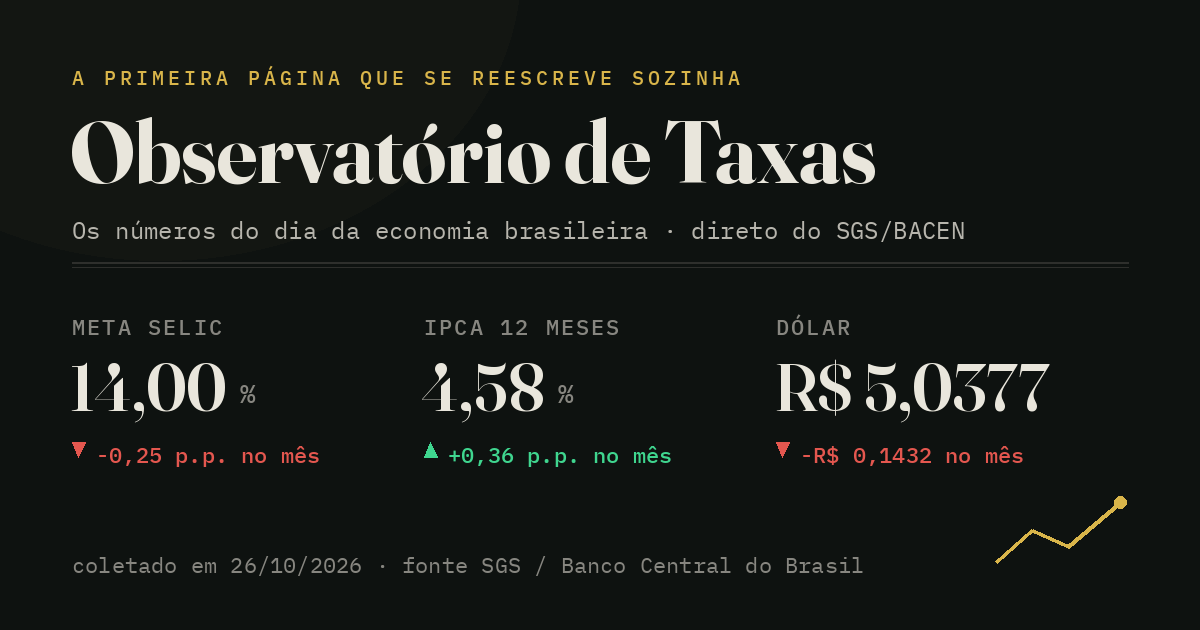
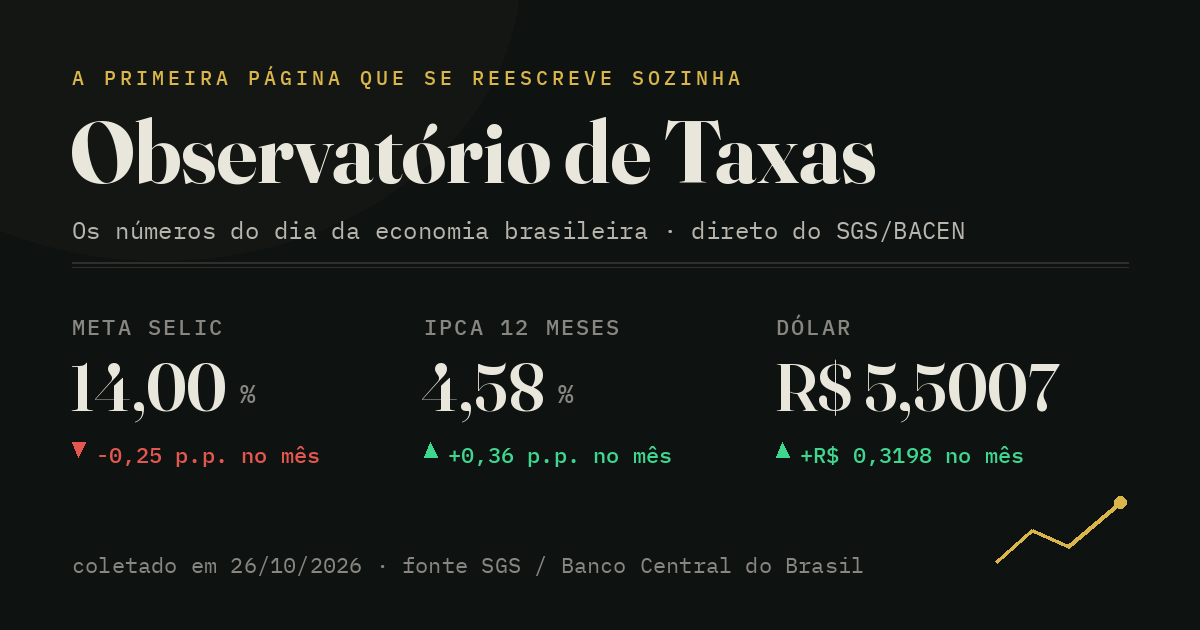
chore: snapshot 2026-10-26

Changed region(s): [[0.74, 0.573, 0.8942, 0.6635], [0.6475, 0.6937, 0.8633, 0.754]]

diff --git a/docs/index.html b/docs/index.html
@@ -321,11 +321,11 @@
       <h1>Observatório de Taxas</h1>
       <!-- boletim:inicio -->
 <p class="masthead-data" id="hoje">Segunda-feira, 26 de outubro de 2026</p>
-<p class="carimbo-linha">coletado às 14:54 · commit <a href="https://github.com/iosbilario/observatorio-taxas/commits/main">970ed77</a> · fonte SGS/BACEN</p>
+<p class="carimbo-linha">coletado às 19:05 · commit <a href="https://github.com/iosbilario/observatorio-taxas/commits/main">4db490b</a> · fonte SGS/BACEN</p>
 <div class="boletim">
 <article class="num" id="selic"><h2 class="num-tag">Taxa Selic hoje</h2><p class="num-rot">Meta Selic</p><p class="num-val"><span class="v">14,00</span><span class="suf">% a.a.</span></p><p class="num-delta down">▼ -0,25 p.p. no mês</p><p class="num-ref">ref. 16/09/2026</p><div class="spark" data-cod="432" data-casas="2" aria-hidden="true"></div></article>
 <article class="num" id="ipca"><h2 class="num-tag">IPCA acumulado 12 meses hoje</h2><p class="num-rot">IPCA 12 meses</p><p class="num-val"><span class="v">4,58</span><span class="suf">%</span></p><p class="num-delta up">▲ +0,36 p.p. no mês</p><p class="num-ref">ref. 01/09/2026</p><div class="spark" data-cod="13522" data-casas="2" aria-hidden="true"></div></article>
-<article class="num" id="dolar"><h2 class="num-tag">Cotação do dólar hoje</h2><p class="num-rot">Dólar (venda)</p><p class="num-val"><span class="v">R$ 5,0377</span></p><p class="num-delta down">▼ -R$ 0,1432 no mês</p><p class="num-ref">ref. 23/10/2026</p><div class="spark" data-cod="1" data-casas="4" aria-hidden="true"></div></article>
+<article class="num" id="dolar"><h2 class="num-tag">Cotação do dólar hoje</h2><p class="num-rot">Dólar (venda)</p><p class="num-val"><span class="v">R$ 5,5007</span></p><p class="num-delta up">▲ +R$ 0,3198 no mês</p><p class="num-ref">ref. 26/10/2026</p><div class="spark" data-cod="1" data-casas="4" aria-hidden="true"></div></article>
 <article class="num" id="igpm"><h2 class="num-tag">IGP-M no mês hoje</h2><p class="num-rot">IGP-M no mês</p><p class="num-val"><span class="v">1,57</span><span class="suf">%</span></p><p class="num-delta up">▲ +1,79 p.p. no mês</p><p class="num-ref">ref. 01/09/2026</p><div class="spark" data-cod="189" data-casas="2" aria-hidden="true"></div></article>
 <article class="num" id="desemprego"><h2 class="num-tag">Taxa de desemprego hoje</h2><p class="num-rot">Desemprego</p><p class="num-val"><span class="v">5,3</span><span class="suf">%</span></p><p class="num-delta flat">■ 0,0 p.p. no mês</p><p class="num-ref">ref. 01/08/2026</p><div class="spark" data-cod="24369" data-casas="1" aria-hidden="true"></div></article>
 </div>
@@ -346,7 +346,7 @@
       <div class="duas">
         <div>
           <!-- rebobinar:inicio -->
-<div class="fita-mini" aria-hidden="true"><span class="fio-mini"></span><span class="no-mini"></span><span class="no-mini"></span><span class="no-mini"></span><span class="no-mini"></span><span class="no-mini"></span><span class="no-mini ativo"></span></div><p class="fita-meses">mai/26 … out/26</p><p class="manchete-mes">O euro não deu trégua em Outubro de 2026</p><a class="btn-link" href="rebobinar.html">Rebobinar mês a mês →</a>
+<div class="fita-mini" aria-hidden="true"><span class="fio-mini"></span><span class="no-mini"></span><span class="no-mini"></span><span class="no-mini"></span><span class="no-mini"></span><span class="no-mini"></span><span class="no-mini ativo"></span></div><p class="fita-meses">mai/26 … out/26</p><p class="manchete-mes">O dólar não deu trégua em Outubro de 2026</p><a class="btn-link" href="rebobinar.html">Rebobinar mês a mês →</a>
 <!-- rebobinar:fim -->
         </div>
         <div></div>

diff --git a/CHANGELOG.md b/CHANGELOG.md
@@ -1083,3 +1083,7 @@
     ↳ Câmbio USD/BRL - compra: subiu de 5,0371 para 5,4998.
 [2026-10-26 17:52:05 +0000] Câmbio EUR/BRL - venda: 5.6422000 -> 6.1487000
     ↳ Câmbio EUR/BRL - venda: subiu de 5,6422 para 6,1487.
+[2026-10-26 22:04:06 +0000] TR - Taxa Referencial (%): 0.1261 -> 0.0959
+    ↳ TR - Taxa Referencial (%): caiu de 0,1261 para 0,0959.
+[2026-10-26 22:04:06 +0000] Câmbio USD/BRL - venda: 5.0377 -> 5.5007
+    ↳ Câmbio USD/BRL - venda: subiu de 5,0377 para 5,5007.
